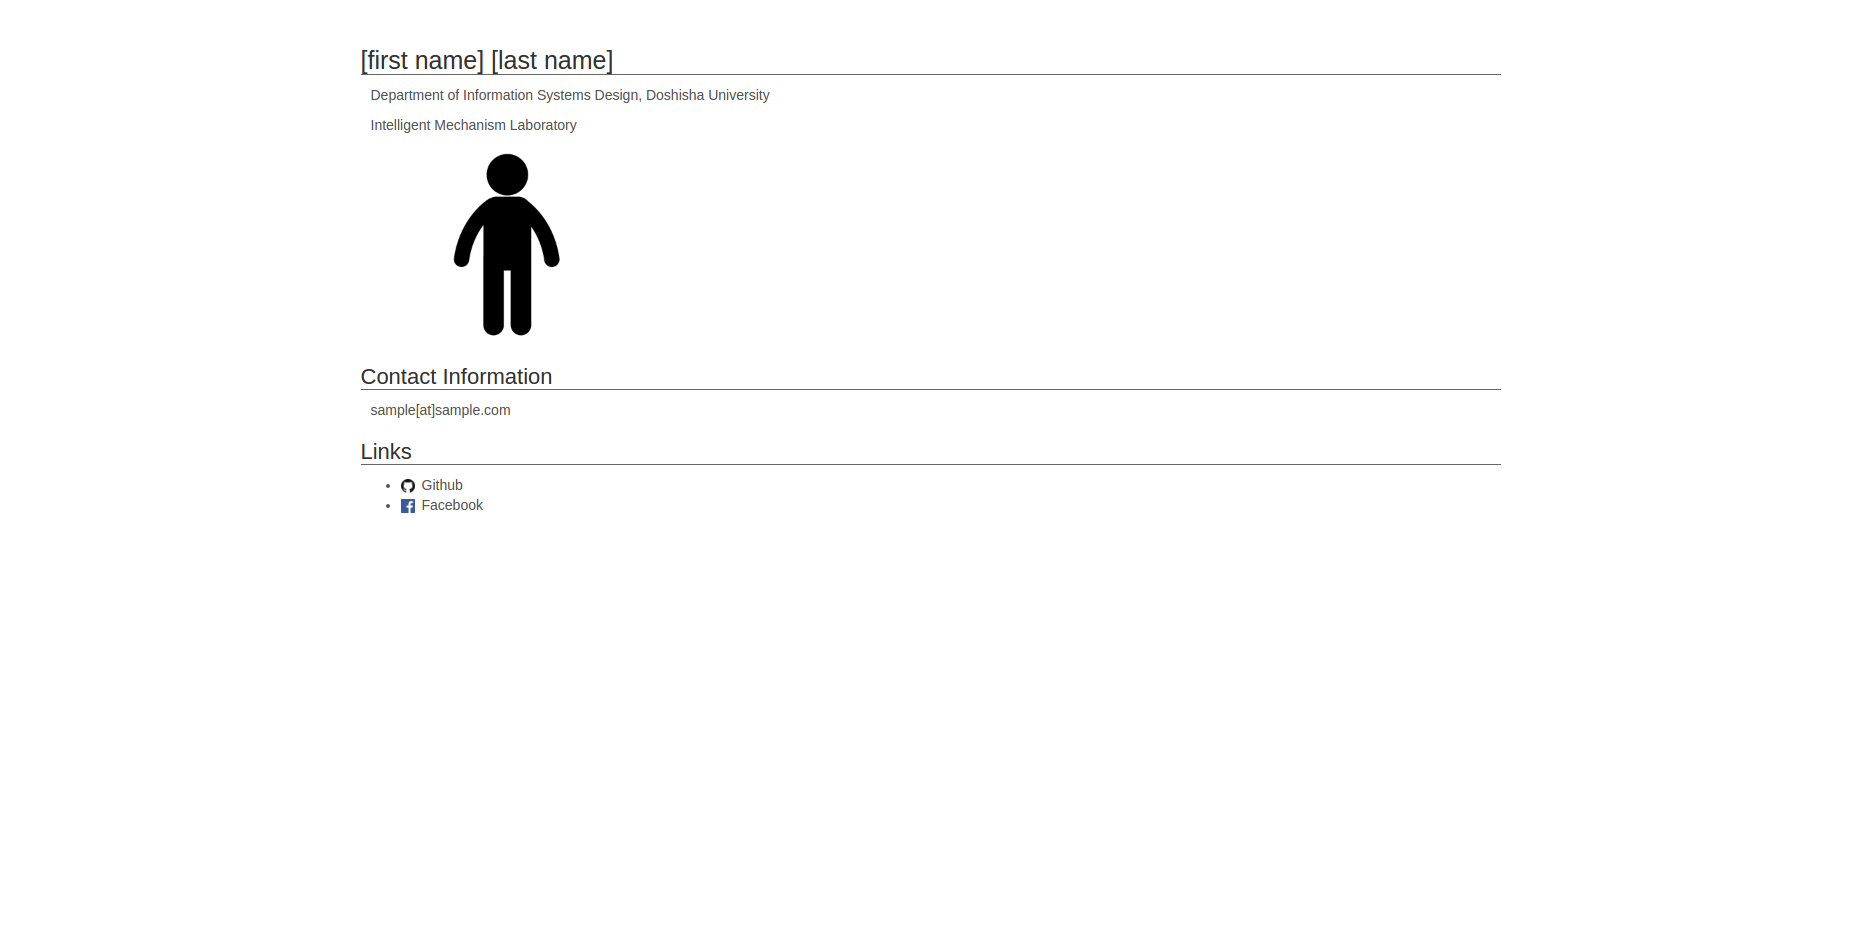
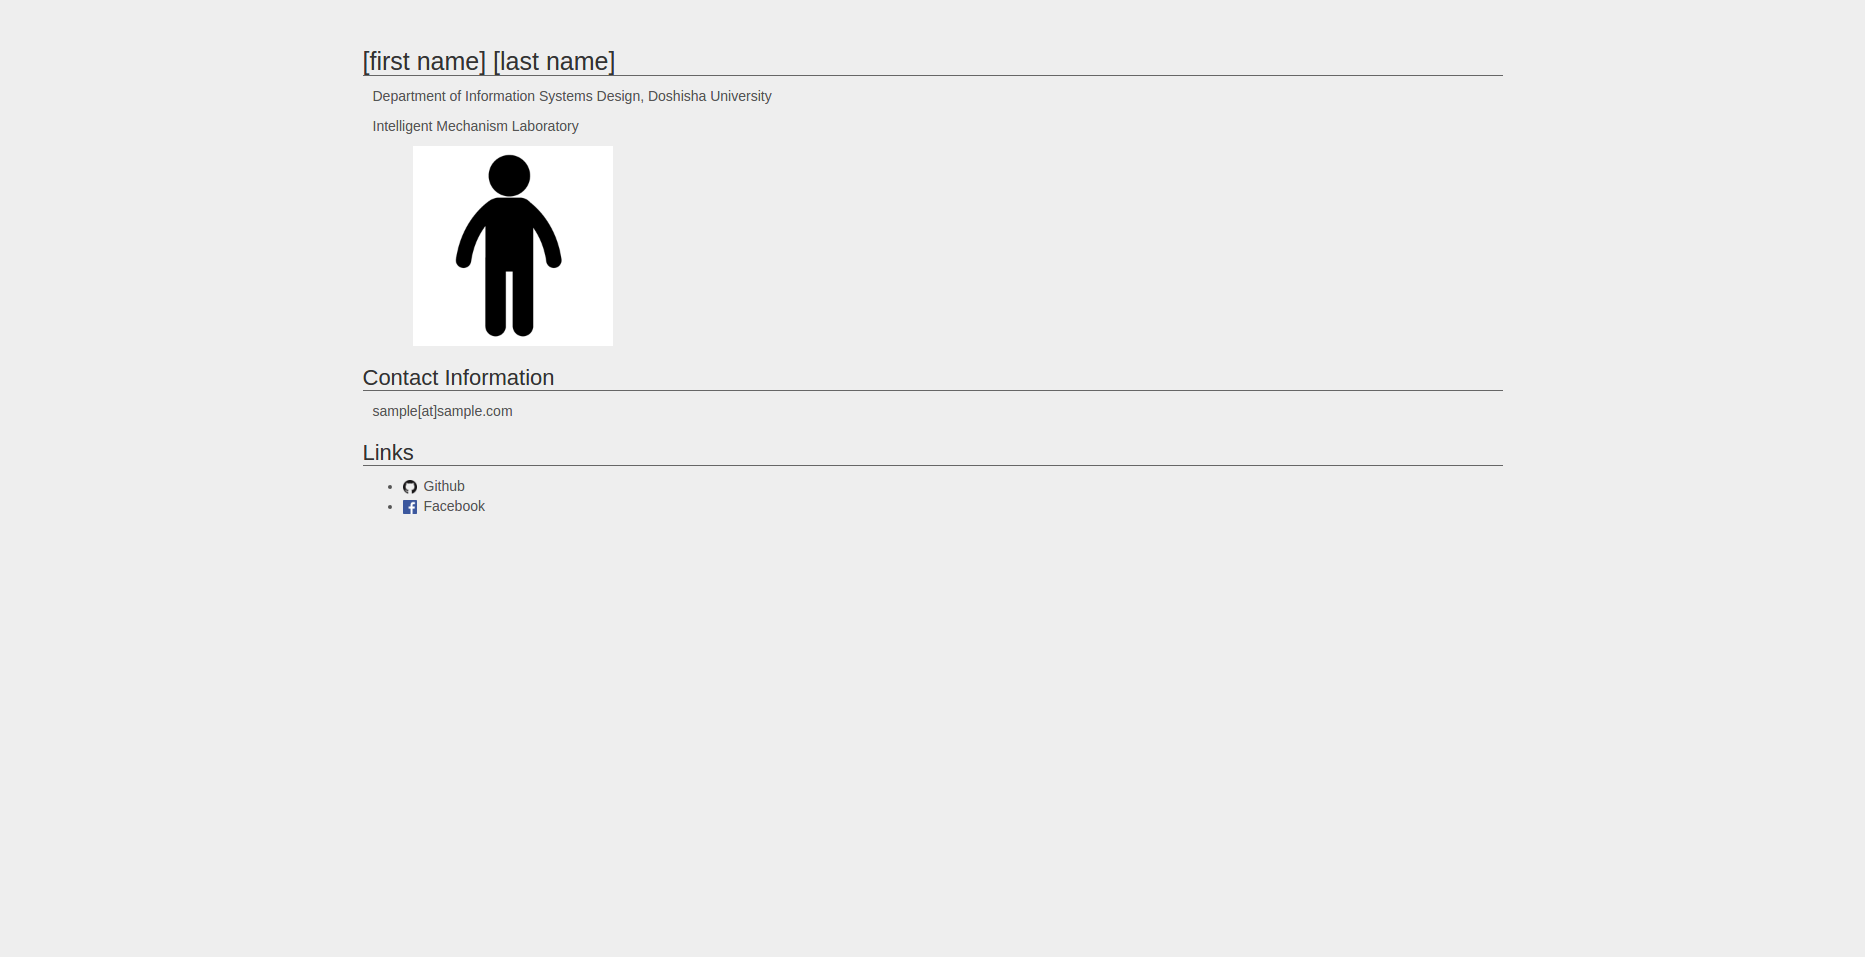
Tweaking

Changed region(s): [[0.1875, 0.3383, 0.7812, 0.5536], [0.1875, 0.0615, 0.4062, 0.1538], [0.25, 0.1845, 0.2812, 0.2153]]

diff --git a/sample1/css/all.css b/sample1/css/all.css
@@ -1,6 +1,7 @@
 body{
     margin-top: 30px;
     color: #555;
+    background-color: #eee;
 }
 
 a{

diff --git a/sample0/css/all.css b/sample0/css/all.css
@@ -1,5 +1,6 @@
 body{
     text-align: center;
+    background-color: #eeeeee;
 }
 
 .header{
